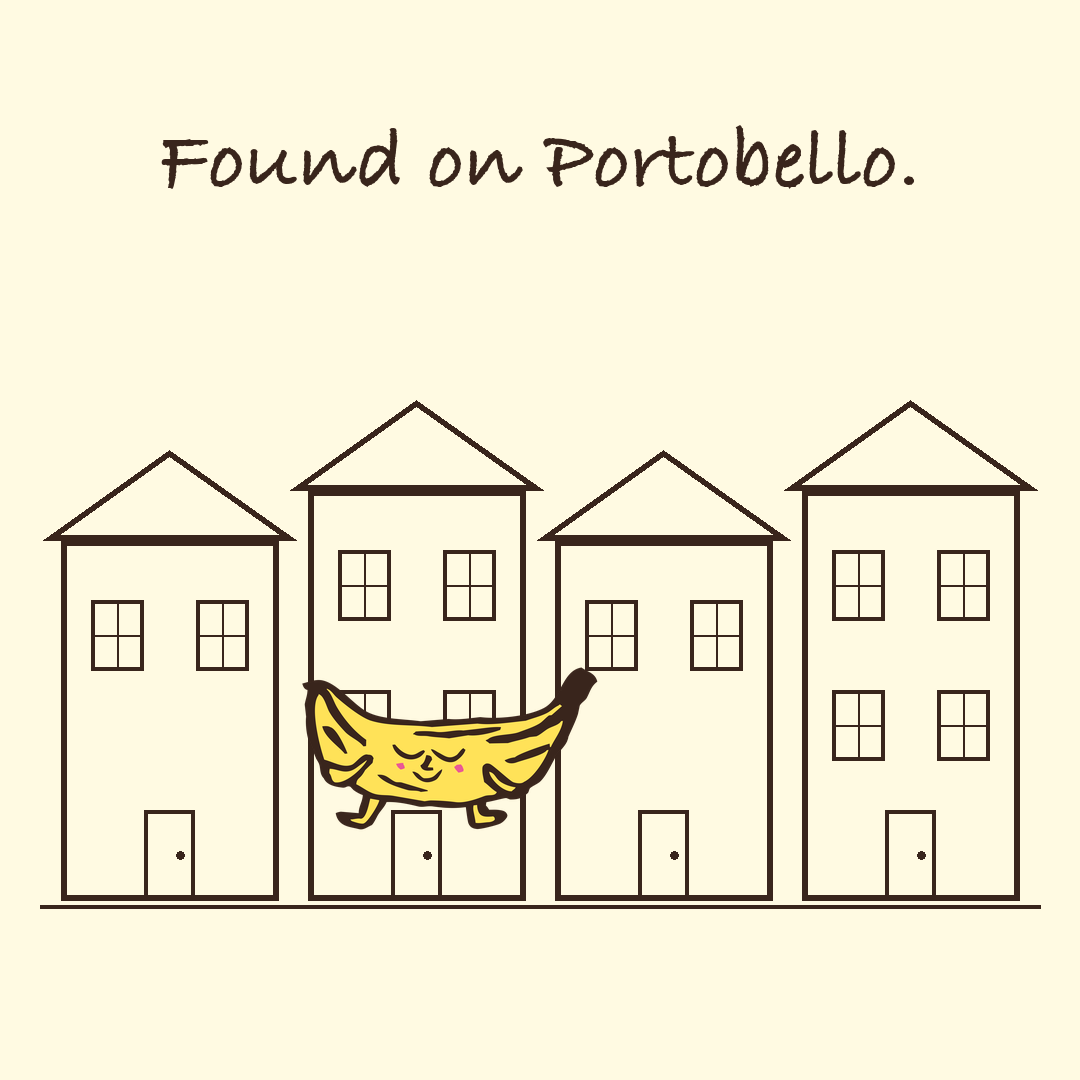
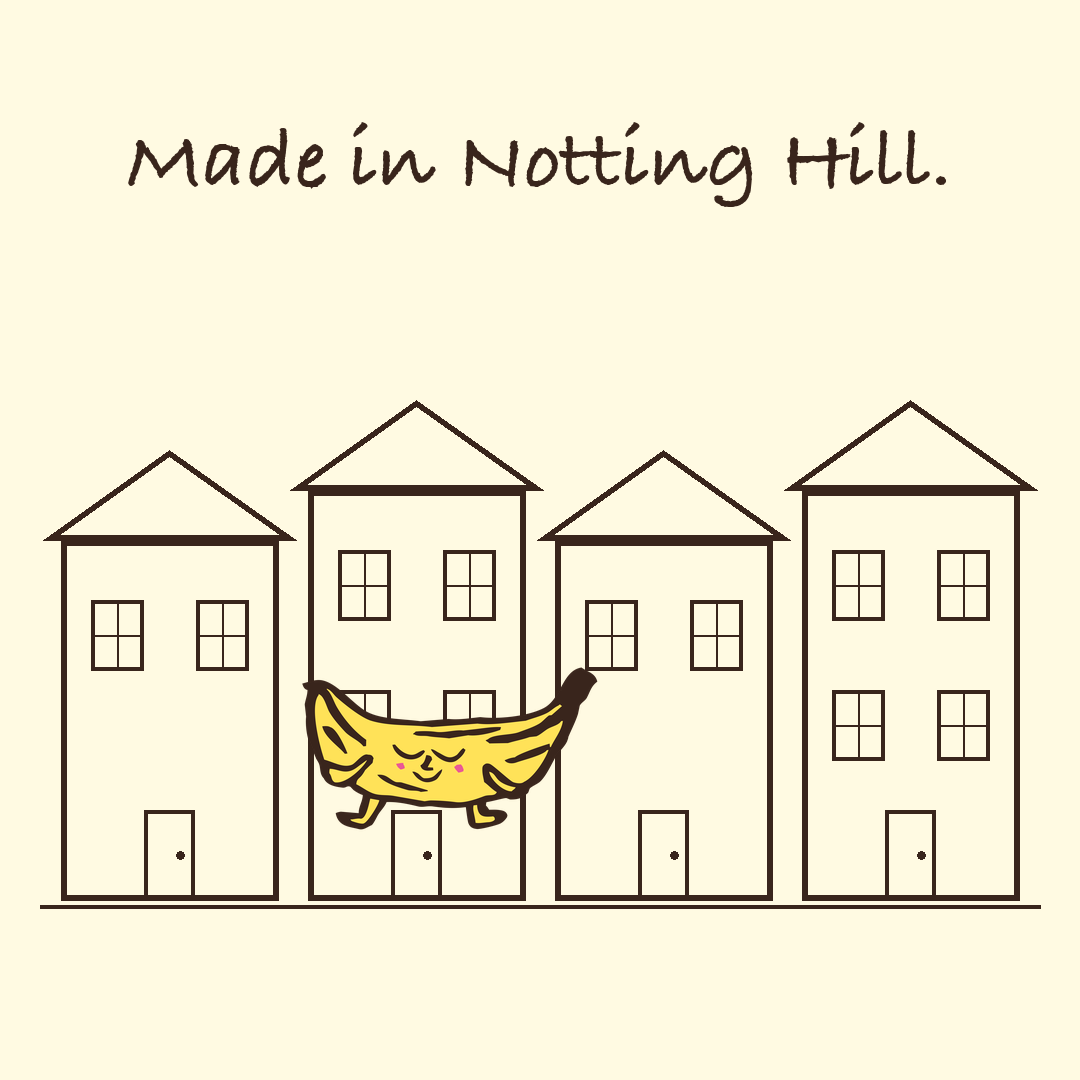
Update text labels (Notting Hill, W8) + 4 cup stack variants for review

Changed region(s): [[0.1222, 0.1222, 0.8861, 0.2139]]

diff --git a/build_grid_current.py b/build_grid_current.py
@@ -78,7 +78,7 @@ def build_peel_w11_tile():
     img.paste(peel, ((TILE - peel.width) // 2, 90), peel)
     d = ImageDraw.Draw(img)
     f = font(64)
-    text = "Made fresh in W11."
+    text = "Made fresh in W8."
     bbox = d.textbbox((0, 0), text, font=f)
     d.text(((TILE - (bbox[2] - bbox[0])) // 2, TILE - 160), text, fill=BROWN, font=f)
     return img